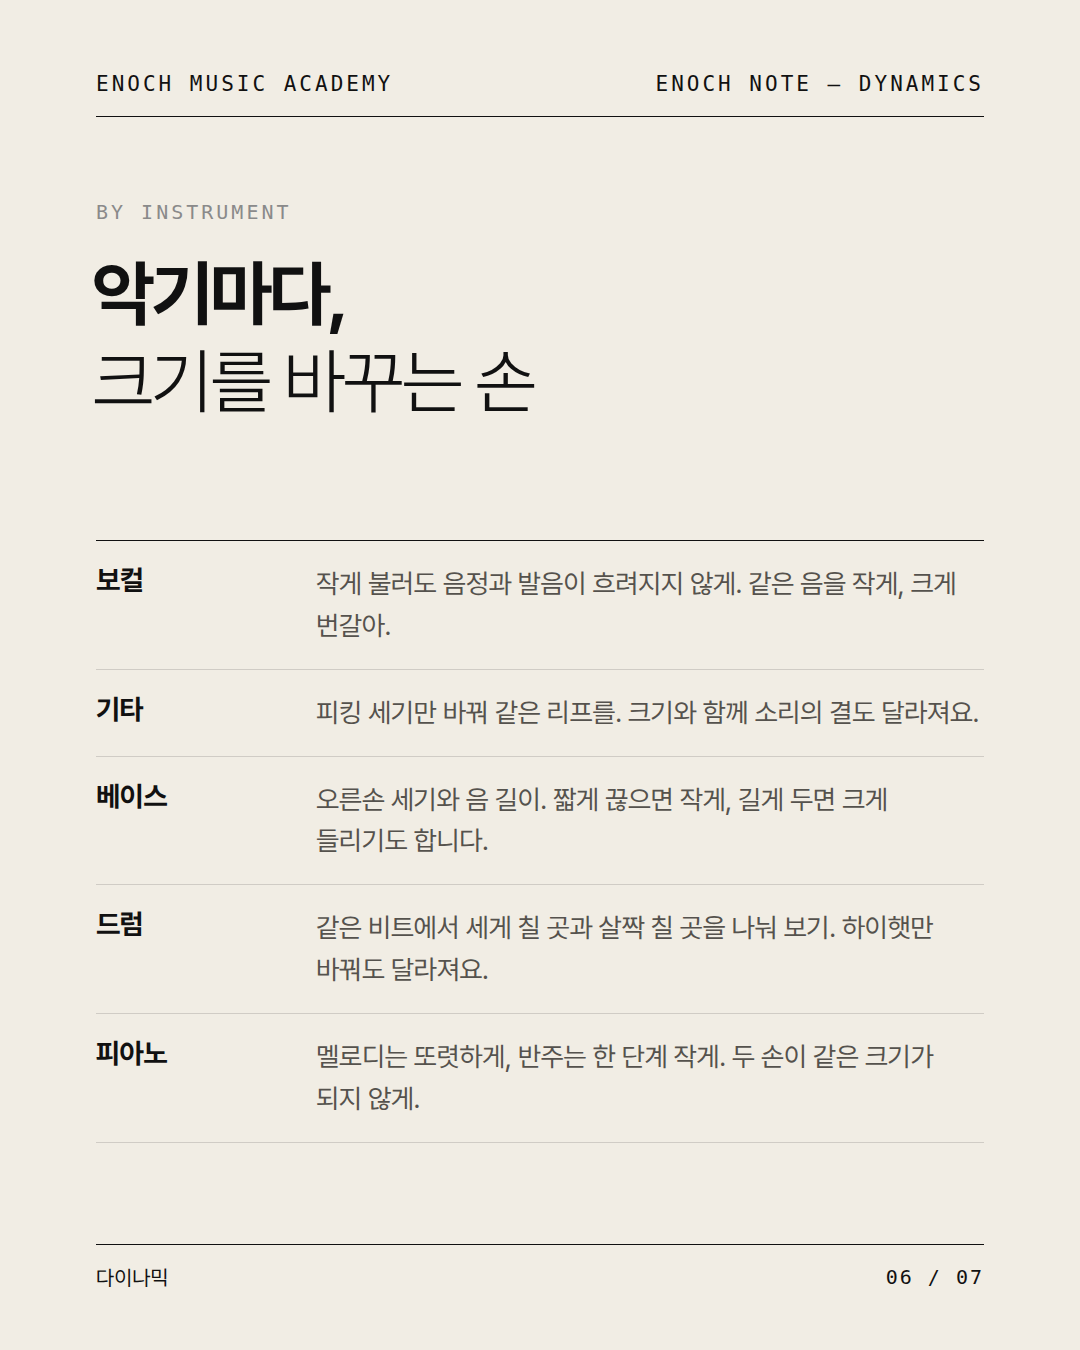
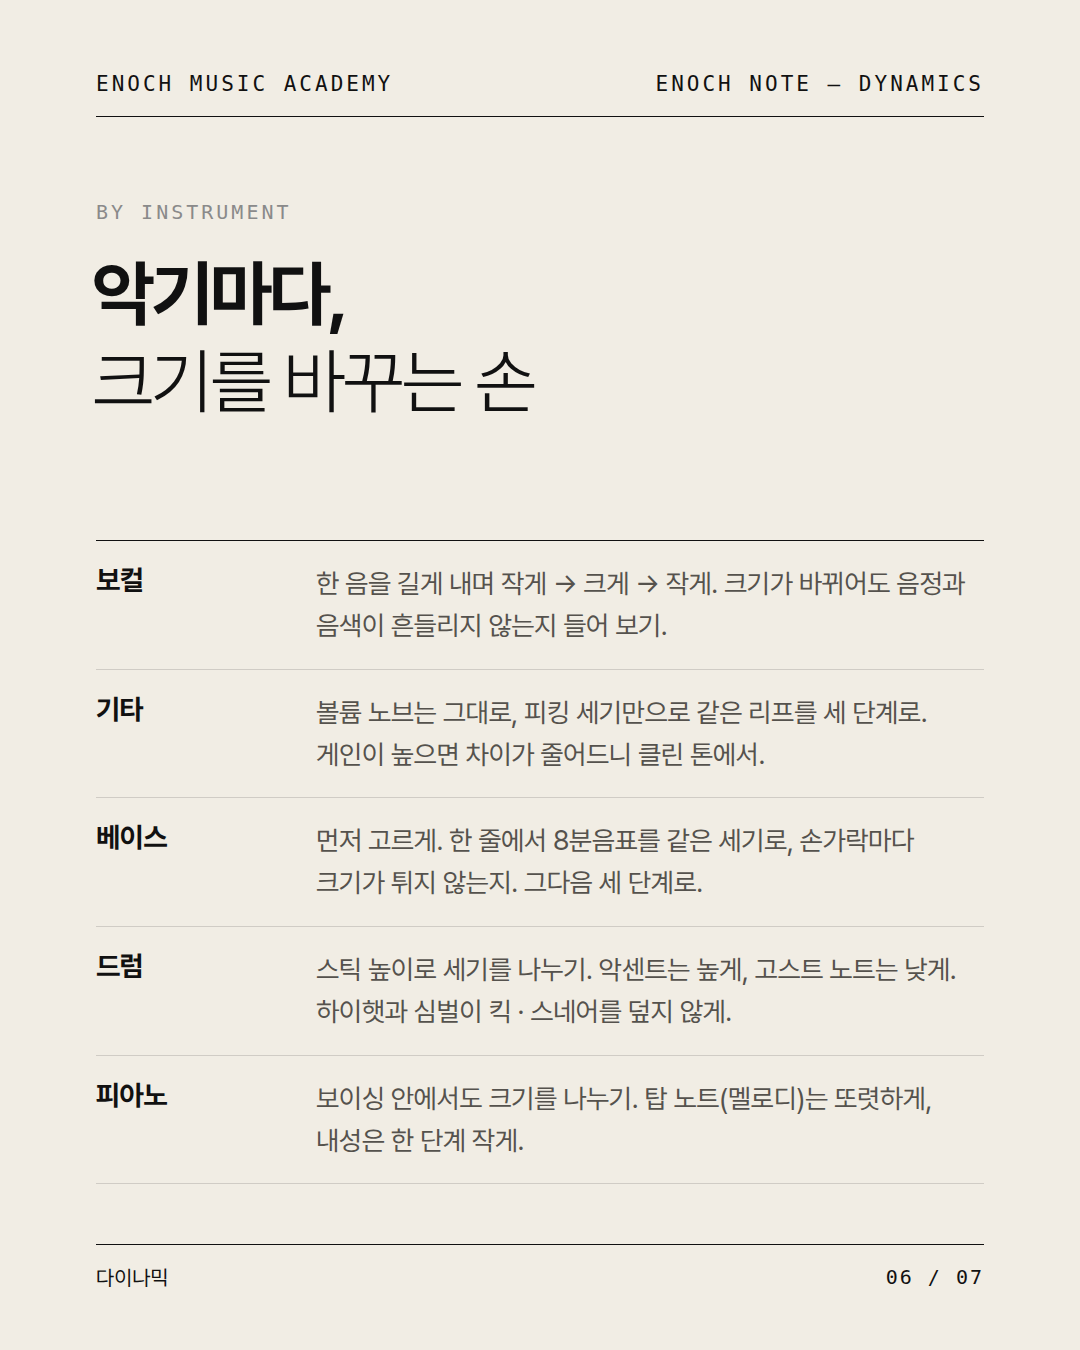
다이나믹: 악기별 팁을 전공자 기준으로 다듬음 (피아노 탑 노트·내성 등)
Claude-Session: https://claude.ai/code/session_01HGbZvgMeYrbU7mY8bwfjyb

Changed region(s): [[0.275, 0.4978, 0.8861, 0.8711], [0.275, 0.4044, 0.8861, 0.4667], [0.0917, 0.56, 0.1528, 0.84]]

diff --git a/output/노트_다이나믹/deck.html b/output/노트_다이나믹/deck.html
@@ -44,7 +44,7 @@
 <div class="h a" style="left:92px;top:250px">처음부터 다 보여 주면,<br><em>갈 곳이 없어요</em></div>
 <div class="p a" style="left:96px;right:96px;top:520px">솔로도 한 편의 이야기. 기승전결이 있을 때, 듣는 사람이 따라옵니다.</div>
 <div class="a" style="left:96px;right:96px;top:640px;height:200px;display:flex;gap:28px;align-items:flex-end"><div style="flex:1;height:50px;background:#DCD6CB"></div><div style="flex:1;height:100px;background:#DCD6CB"></div><div style="flex:1;height:190px;background:#D9E1E8"></div><div style="flex:1;height:70px;background:#DCD6CB"></div></div>
-<div class="a" style="left:96px;right:96px;top:860px;display:flex;gap:28px;align-items:flex-start"><div style="flex:1;border-top:1.5px solid #111;padding-top:22px"><div style="font-size:64px;font-weight:700;letter-spacing:-2px">기<span style="font-size:24px;font-weight:300;color:#8A8A8A;margin-left:10px">起</span></div><div style="margin-top:14px;font-size:25px;line-height:1.55;color:#55524D;letter-spacing:-.5px">짧은 동기 하나로 시작. 여백을 남겨 둡니다.</div></div><div style="flex:1;border-top:1.5px solid #111;padding-top:22px"><div style="font-size:64px;font-weight:700;letter-spacing:-2px">승<span style="font-size:24px;font-weight:300;color:#8A8A8A;margin-left:10px">承</span></div><div style="margin-top:14px;font-size:25px;line-height:1.55;color:#55524D;letter-spacing:-.5px">그 동기를 반복하고 조금씩 바꾸며 쌓아요.</div></div><div style="flex:1;border-top:1.5px solid #111;padding-top:22px"><div style="font-size:64px;font-weight:700;letter-spacing:-2px">전<span style="font-size:24px;font-weight:300;color:#8A8A8A;margin-left:10px">轉</span></div><div style="margin-top:14px;font-size:25px;line-height:1.55;color:#55524D;letter-spacing:-.5px">가장 높고, 가장 큰 순간.</div></div><div style="flex:1;border-top:1.5px solid #111;padding-top:22px"><div style="font-size:64px;font-weight:700;letter-spacing:-2px">결<span style="font-size:24px;font-weight:300;color:#8A8A8A;margin-left:10px">結</span></div><div style="margin-top:14px;font-size:25px;line-height:1.55;color:#55524D;letter-spacing:-.5px">다시 내려와 숨을 고르며 닫기.</div></div></div>
+<div class="a" style="left:96px;right:96px;top:860px;display:flex;gap:28px;align-items:flex-start"><div style="flex:1;border-top:1.5px solid #111;padding-top:22px"><div style="font-size:64px;font-weight:700;letter-spacing:-2px">기<span style="font-size:24px;font-weight:300;color:#8A8A8A;margin-left:10px">起</span></div><div style="margin-top:14px;font-size:25px;line-height:1.55;color:#55524D;letter-spacing:-.5px">짧은 동기 하나로 시작. 여백을 남겨 둡니다.</div></div><div style="flex:1;border-top:1.5px solid #111;padding-top:22px"><div style="font-size:64px;font-weight:700;letter-spacing:-2px">승<span style="font-size:24px;font-weight:300;color:#8A8A8A;margin-left:10px">承</span></div><div style="margin-top:14px;font-size:25px;line-height:1.55;color:#55524D;letter-spacing:-.5px">그 동기를 반복하고 조금씩 바꾸며 쌓아요.</div></div><div style="flex:1;border-top:1.5px solid #111;padding-top:22px"><div style="font-size:64px;font-weight:700;letter-spacing:-2px">전<span style="font-size:24px;font-weight:300;color:#8A8A8A;margin-left:10px">轉</span></div><div style="margin-top:14px;font-size:25px;line-height:1.55;color:#55524D;letter-spacing:-.5px">가장 높거나, 가장 큰 순간.</div></div><div style="flex:1;border-top:1.5px solid #111;padding-top:22px"><div style="font-size:64px;font-weight:700;letter-spacing:-2px">결<span style="font-size:24px;font-weight:300;color:#8A8A8A;margin-left:10px">結</span></div><div style="margin-top:14px;font-size:25px;line-height:1.55;color:#55524D;letter-spacing:-.5px">다시 내려와 숨을 고르며 닫기.</div></div></div>
 <div class="ft"><span>다이나믹</span><span>04 / 07</span></div></section><section class="s dark" id="c5"><div class="hd"><span>ENOCH MUSIC ACADEMY</span><span>TRY AT HOME</span></div>
 <div class="k a" style="left:96px;top:200px;color:#9A958C">Practice</div>
 <div class="h a" style="left:92px;top:250px">한 소절을,<br><em>세 가지 크기로</em></div>
@@ -57,7 +57,7 @@
 <div class="ft"><span>다이나믹</span><span>05 / 07</span></div></section><section class="s" id="c6"><div class="hd"><span>ENOCH MUSIC ACADEMY</span><span>ENOCH NOTE — DYNAMICS</span></div>
 <div class="k a" style="left:96px;top:200px">By Instrument</div>
 <div class="h a" style="left:92px;top:250px">악기마다,<br><em>크기를 바꾸는 손</em></div>
-<div class="a" style="left:96px;right:96px;top:540px;border-top:1.5px solid #111"><div class="row"><span class="n">보컬</span><span class="t">작게 불러도 음정과 발음이 흐려지지 않게. 같은 음을 작게, 크게 번갈아.</span></div><div class="row"><span class="n">기타</span><span class="t">피킹 세기만 바꿔 같은 리프를. 크기와 함께 소리의 결도 달라져요.</span></div><div class="row"><span class="n">베이스</span><span class="t">오른손 세기와 음 길이. 짧게 끊으면 작게, 길게 두면 크게 들리기도 합니다.</span></div><div class="row"><span class="n">드럼</span><span class="t">같은 비트에서 세게 칠 곳과 살짝 칠 곳을 나눠 보기. 하이햇만 바꿔도 달라져요.</span></div><div class="row"><span class="n">피아노</span><span class="t">멜로디는 또렷하게, 반주는 한 단계 작게. 두 손이 같은 크기가 되지 않게.</span></div></div>
+<div class="a" style="left:96px;right:96px;top:540px;border-top:1.5px solid #111"><div class="row"><span class="n">보컬</span><span class="t">한 음을 길게 내며 작게 → 크게 → 작게. 크기가 바뀌어도 음정과 음색이 흔들리지 않는지 들어 보기.</span></div><div class="row"><span class="n">기타</span><span class="t">볼륨 노브는 그대로, 피킹 세기만으로 같은 리프를 세 단계로. 게인이 높으면 차이가 줄어드니 클린 톤에서.</span></div><div class="row"><span class="n">베이스</span><span class="t">먼저 고르게. 한 줄에서 8분음표를 같은 세기로, 손가락마다 크기가 튀지 않는지. 그다음 세 단계로.</span></div><div class="row"><span class="n">드럼</span><span class="t">스틱 높이로 세기를 나누기. 악센트는 높게, 고스트 노트는 낮게. 하이햇과 심벌이 킥 · 스네어를 덮지 않게.</span></div><div class="row"><span class="n">피아노</span><span class="t">보이싱 안에서도 크기를 나누기. 탑 노트(멜로디)는 또렷하게, 내성은 한 단계 작게.</span></div></div>
 <div class="ft"><span>다이나믹</span><span>06 / 07</span></div></section><section class="s dark" id="c7"><div class="hd"><span>ENOCH MUSIC ACADEMY</span><span>THE ENOCH WAY</span></div>
 <div class="a" style="left:92px;top:150px;font-family:var(--en);font-weight:700;font-size:240px;letter-spacing:-8px;color:#2A2825;line-height:1">ENOCH</div>
 <div class="h a" style="left:92px;top:450px">크기를 다룰 때,<br><span style="color:var(--mi)">소리가 말을 합니다.</span></div>

diff --git a/output/노트_다이나믹/gen.py b/output/노트_다이나믹/gen.py
@@ -66,7 +66,7 @@ S.append(f"""<section class="s" id="c3">{HD()}
 {FT(3)}</section>""")
 
 # 04 솔로 기승전결
-ks=[("기","起","짧은 동기 하나로 시작. 여백을 남겨 둡니다.",50),("승","承","그 동기를 반복하고 조금씩 바꾸며 쌓아요.",100),("전","轉","가장 높고, 가장 큰 순간.",190),("결","結","다시 내려와 숨을 고르며 닫기.",70)]
+ks=[("기","起","짧은 동기 하나로 시작. 여백을 남겨 둡니다.",50),("승","承","그 동기를 반복하고 조금씩 바꾸며 쌓아요.",100),("전","轉","가장 높거나, 가장 큰 순간.",190),("결","結","다시 내려와 숨을 고르며 닫기.",70)]
 bars4=''.join(f'<div style="flex:1;height:{h}px;background:{"#D9E1E8" if a=="전" else "#DCD6CB"}"></div>' for a,b,c,h in ks)
 cols=''.join(f'<div style="flex:1;border-top:1.5px solid #111;padding-top:22px"><div style="font-size:64px;font-weight:700;letter-spacing:-2px">{a}<span style="font-size:24px;font-weight:300;color:#8A8A8A;margin-left:10px">{b}</span></div><div style="margin-top:14px;font-size:25px;line-height:1.55;color:#55524D;letter-spacing:-.5px">{c}</div></div>' for a,b,c,h in ks)
 S.append(f"""<section class="s" id="c4">{HD()}
@@ -90,7 +90,7 @@ S.append(f"""<section class="s dark" id="c5">{HD("TRY AT HOME")}
 {FT(5)}</section>""")
 
 # 06 악기별
-parts=[("보컬","작게 불러도 음정과 발음이 흐려지지 않게. 같은 음을 작게, 크게 번갈아."),("기타","피킹 세기만 바꿔 같은 리프를. 크기와 함께 소리의 결도 달라져요."),("베이스","오른손 세기와 음 길이. 짧게 끊으면 작게, 길게 두면 크게 들리기도 합니다."),("드럼","같은 비트에서 세게 칠 곳과 살짝 칠 곳을 나눠 보기. 하이햇만 바꿔도 달라져요."),("피아노","멜로디는 또렷하게, 반주는 한 단계 작게. 두 손이 같은 크기가 되지 않게.")]
+parts=[("보컬","한 음을 길게 내며 작게 → 크게 → 작게. 크기가 바뀌어도 음정과 음색이 흔들리지 않는지 들어 보기."),("기타","볼륨 노브는 그대로, 피킹 세기만으로 같은 리프를 세 단계로. 게인이 높으면 차이가 줄어드니 클린 톤에서."),("베이스","먼저 고르게. 한 줄에서 8분음표를 같은 세기로, 손가락마다 크기가 튀지 않는지. 그다음 세 단계로."),("드럼","스틱 높이로 세기를 나누기. 악센트는 높게, 고스트 노트는 낮게. 하이햇과 심벌이 킥 · 스네어를 덮지 않게."),("피아노","보이싱 안에서도 크기를 나누기. 탑 노트(멜로디)는 또렷하게, 내성은 한 단계 작게.")]
 rows=''.join(f'<div class="row"><span class="n">{a}</span><span class="t">{b}</span></div>' for a,b in parts)
 S.append(f"""<section class="s" id="c6">{HD()}
 <div class="k a" style="left:96px;top:200px">By Instrument</div>
